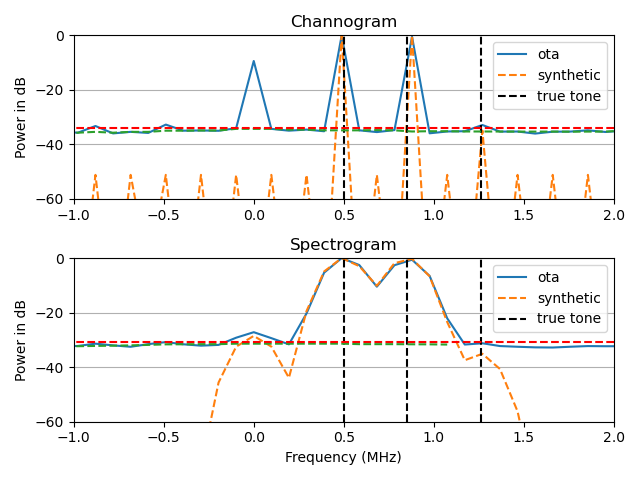
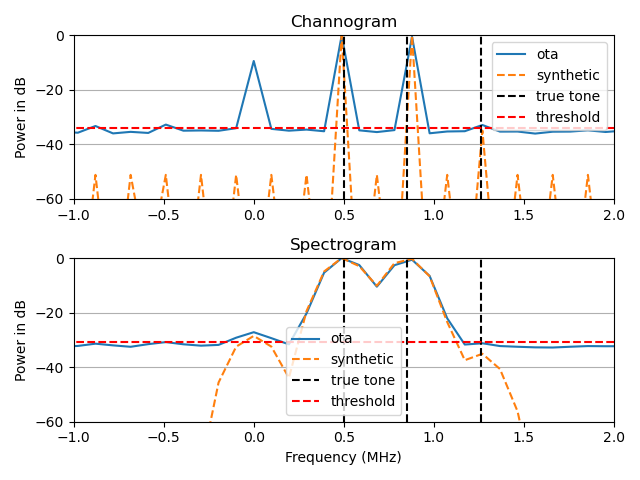
Removed threshold plot, and medfilt plot

diff --git a/test_scripts/tone_test_spectrogram.py b/test_scripts/tone_test_spectrogram.py
@@ -124,7 +124,6 @@ if __name__ == "__main__":
     # ax[0].axes.minorticks_on()
     ax[0].axes.grid(axis="y", which="major")
     ax[0].axes.set_xlim(-1.0, 2.0)
-    ax[0].axes.legend(loc="best")
     ax[0].axes.set_title("Channogram")
     #ax[1].axes.set_aspect('auto')
     #ax[1].axes.set_xlabel("Frequency (MHz)")
@@ -166,7 +165,6 @@ if __name__ == "__main__":
     reduced_psd_ = 10*np.log10(np.fft.fftshift(psd_) / np.max(psd_))
     ax[1].plot(np.fft.fftshift(f_)[start_fft_index+1:stop_fft_index+1], reduced_psd_[::-1][start_fft_index:stop_fft_index], linestyle='--', label="synthetic")
     ax[1].plot([0.5, 0.5], [-60, 0], linestyle="--", color="black", label="true tone")
-    ax[1].axes.legend(loc="best")
     ax[1].plot([0.85, 0.85], [-60, 0], linestyle="--", color="black")
     ax[1].plot([1.26, 1.26], [-60, 0], linestyle="--", color="black")
     
@@ -182,20 +180,13 @@ if __name__ == "__main__":
     ax[1].axes.set_xlim(-1.0, 2.0)
     ax[1].axes.grid(axis="y", which="major")
     
+    
+    
     filtered_iq = medfilt(reduced_iq, kernel_size=5)
     filtered_psd = medfilt(reduced_psd, kernel_size=29)
 
     noise_floors = [np.mean(synth_reduced_iq), np.mean(reduced_psd_), np.mean(filtered_iq),  np.mean(reduced_psd)]
     
-    ax[0].plot(fs / 2 - fs * np.array([ind for ind in range(start_index, stop_index)][::-1]).astype("float32") / 1024, filtered_iq[start_index:stop_index][::-1], linestyle="--", label="filtered ota")
-    ax[1].plot(fs / 2 - fs * np.array([ind for ind in range(start_fft_index+1, stop_fft_index+1)][::-1]).astype("float32") / 1024, filtered_psd[start_fft_index+1:stop_fft_index+1][::-1], linestyle="--", label="filtered ota")
-    
-
-    # Detect energy in reduced_iq and synth_reduced_iq
-    # filtered_iq = medfilt(synth_reduced_iq, kernel_size=5)
-    # filtered_iq = medfilt(reduced_psd, kernel_size=5)
-    # filtered_iq = medfilt(reduced_psd_, kernel_size=5)
-
     
     threshold_ota_channogram, detected_energy_ota_channogram = detect(reduced_iq, noise_floors, multiplier, False, True)
     threshold_synthetic_channogram, detected_energy_synthetic_channogram = detect(synth_reduced_iq, noise_floors, multiplier, True, True)
@@ -203,8 +194,12 @@ if __name__ == "__main__":
     threshold_ota_spectro, detected_energy_ota_spectro = detect(reduced_psd, noise_floors, multiplier)
     threshold_synthetic_spectro, detected_energy_synthetic_spectro = detect(reduced_psd_, noise_floors, multiplier, True)
     
-    ax[0].plot([-fs/2, fs/2], [threshold_ota_channogram, threshold_ota_channogram], linestyle="--", color="red", label="OTA Threshold")
-    ax[1].plot([-fs/2, fs/2], [threshold_ota_spectro, threshold_ota_spectro], linestyle="--", color="red", label="OTA Threshold")
+    ax[0].plot([-fs/2, fs/2], [threshold_ota_channogram, threshold_ota_channogram], linestyle="--", color="red", label="threshold")
+    ax[1].plot([-fs/2, fs/2], [threshold_ota_spectro, threshold_ota_spectro], linestyle="--", color="red", label="threshold")
+    
+    ax[1].axes.legend(loc="best")
+    ax[0].axes.legend(loc="best")
+    
     
     fig.tight_layout()
     fig.savefig("../images/chann_spectrogram.png")
@@ -253,4 +248,4 @@ if __name__ == "__main__":
     
     
     detect_fig.tight_layout()
-    detect_fig.savefig("../images/detection.png")
+    # detect_fig.savefig("../images/detection.png")
